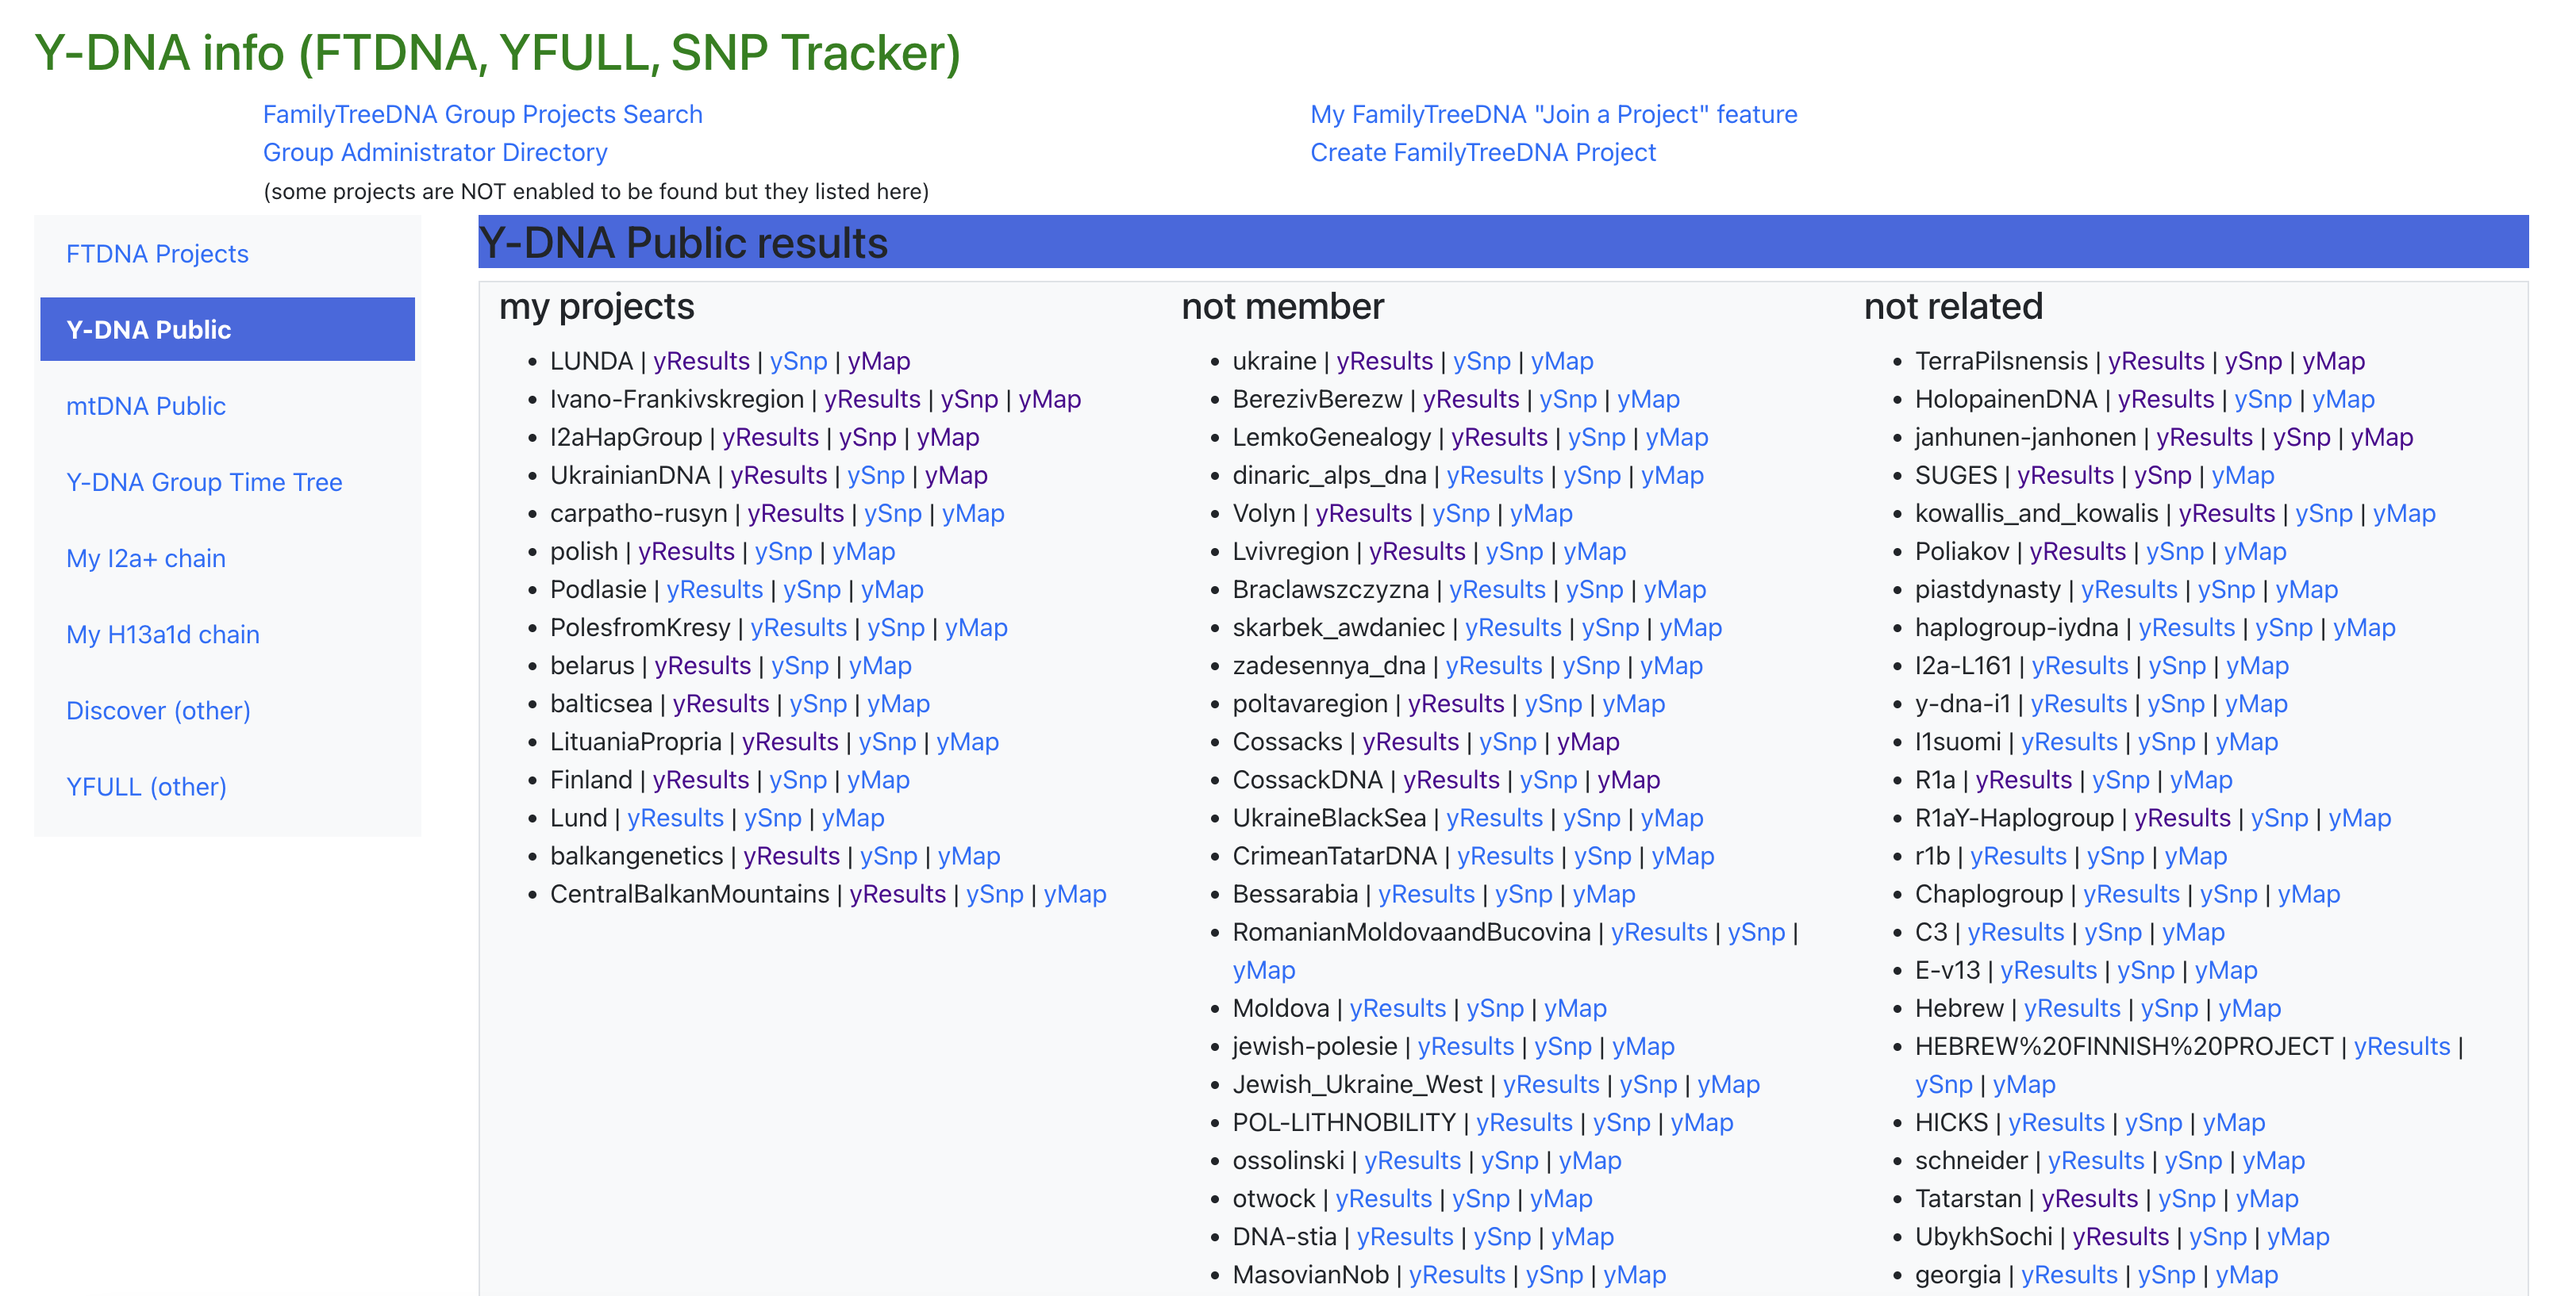
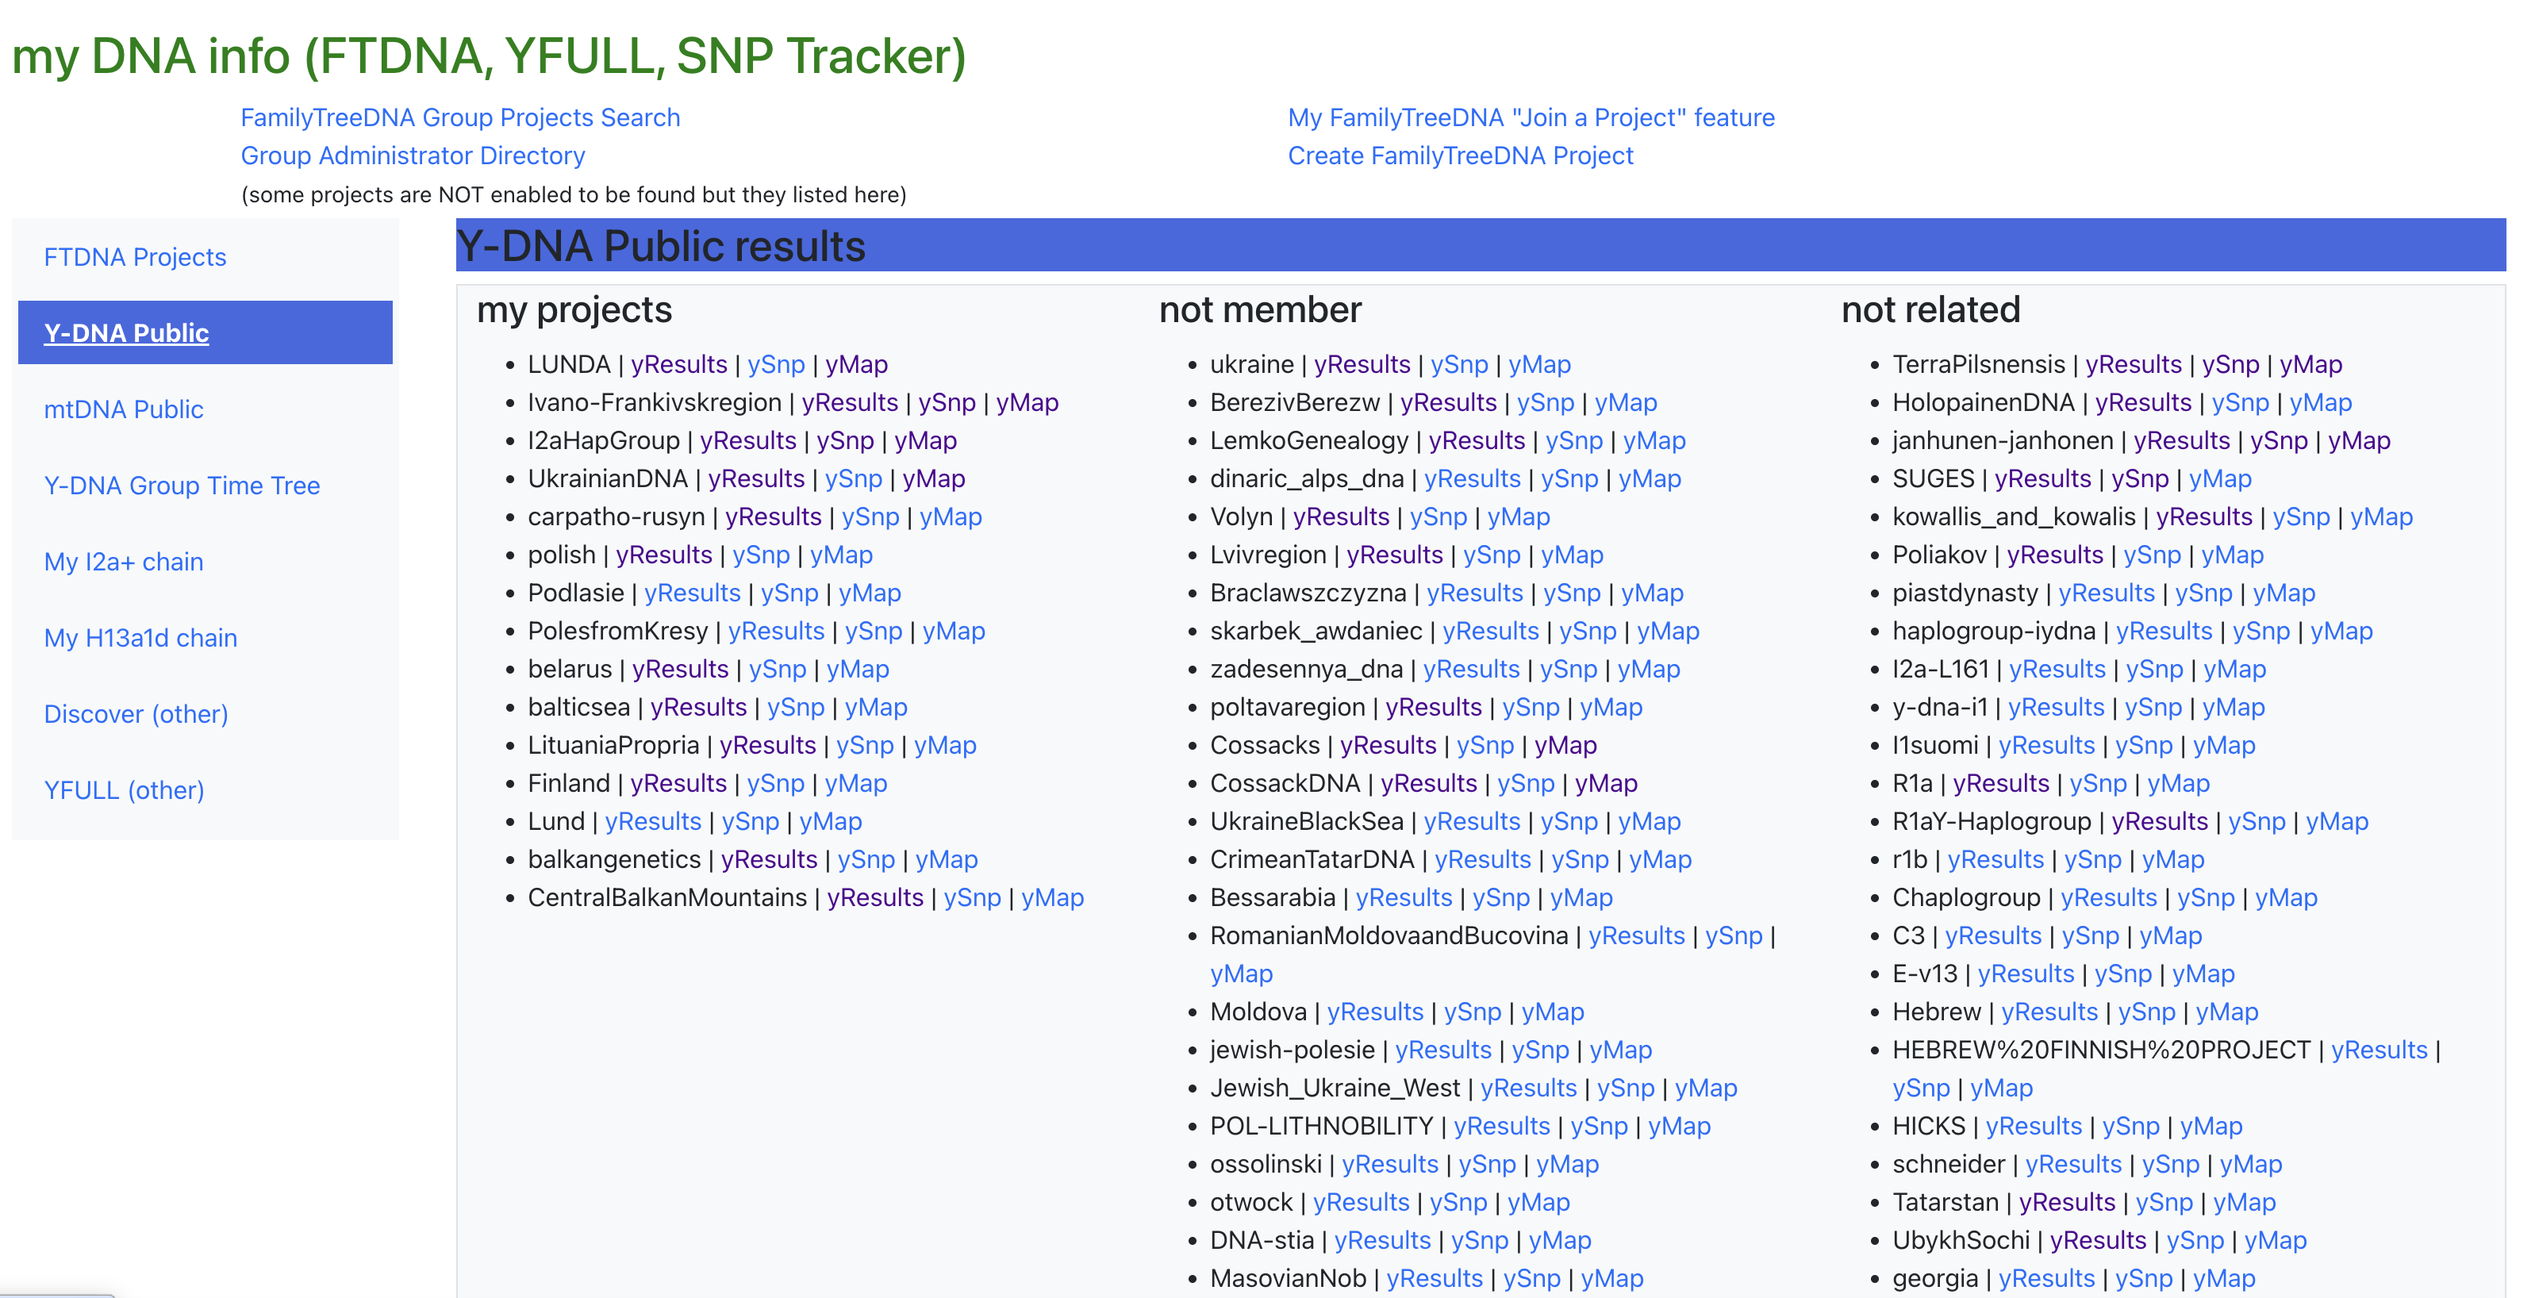
Modified image for README

diff --git a/src/feature-components/AppHeader.tsx b/src/feature-components/AppHeader.tsx
@@ -3,7 +3,7 @@ import { Col, Container, Row } from 'reactstrap';
 export function AppHeader() {
   return (
     <header>
-      <h2 id="home">Y-DNA info (FTDNA, YFULL, SNP Tracker)</h2>
+      <h2 id="home">my DNA info (FTDNA, YFULL, SNP Tracker)</h2>
       <Container>
         <Row>
           <Col>
